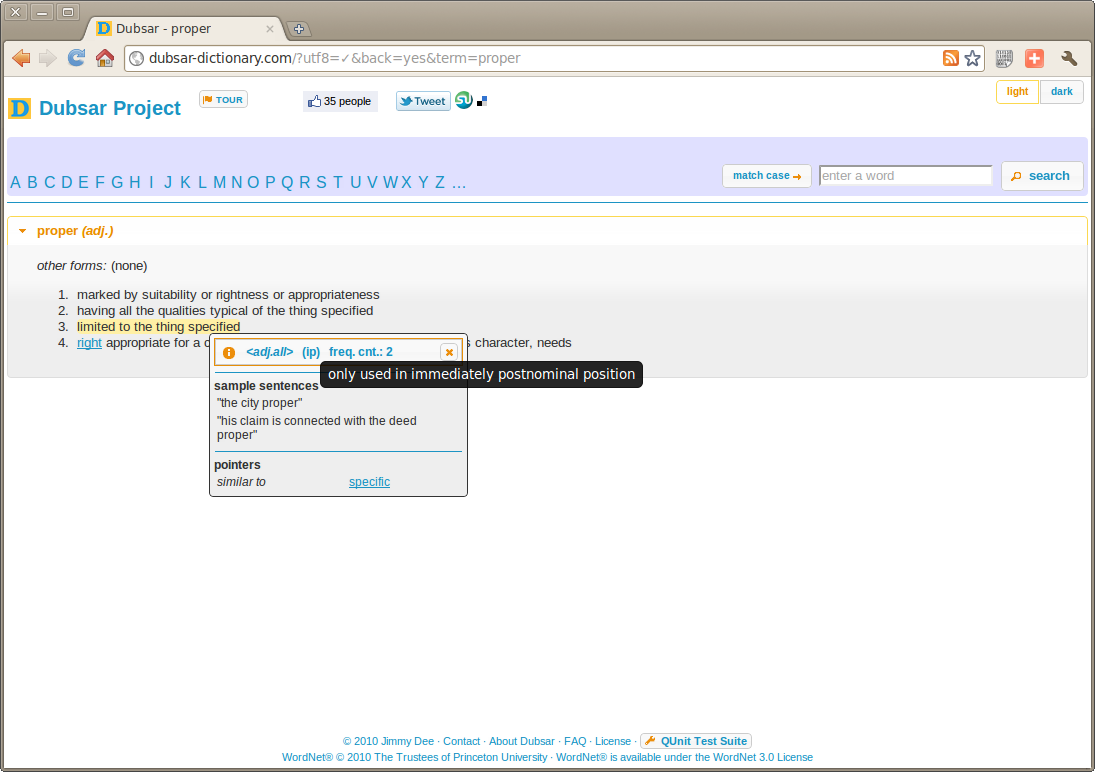
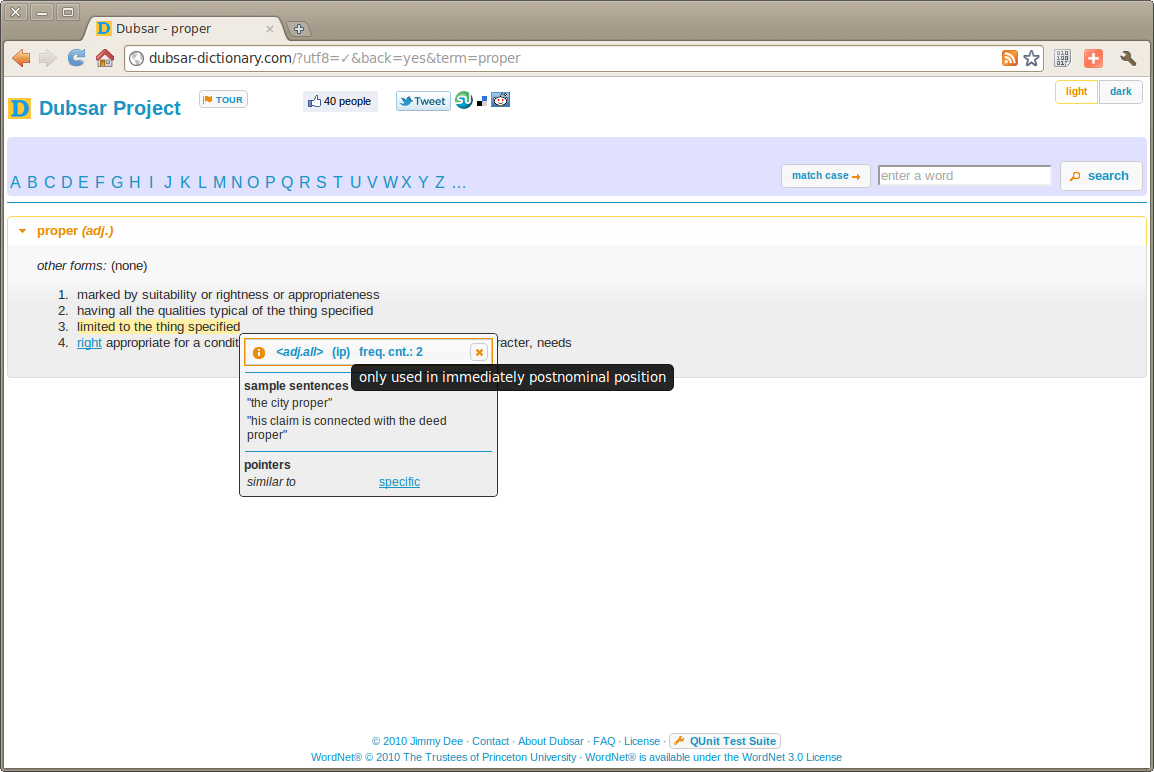
updated reddit category

diff --git a/app/helpers/application_helper.rb b/app/helpers/application_helper.rb
@@ -78,7 +78,7 @@ EOF
 
   def reddit_button(url='http://dubsar-dictionary.com')
     s = <<EOF
-<a href="http://reddit.com/r/technology/submit?url=#{url}"> <img src="http://reddit.com/static/spreddit1.gif" alt="submit to reddit" style="border-style: none;" /> </a>
+<a href="http://reddit.com/r/all/submit?url=#{url}"> <img src="http://reddit.com/static/spreddit1.gif" alt="submit to reddit" style="border-style: none;" /> </a>
 EOF
   end
 
